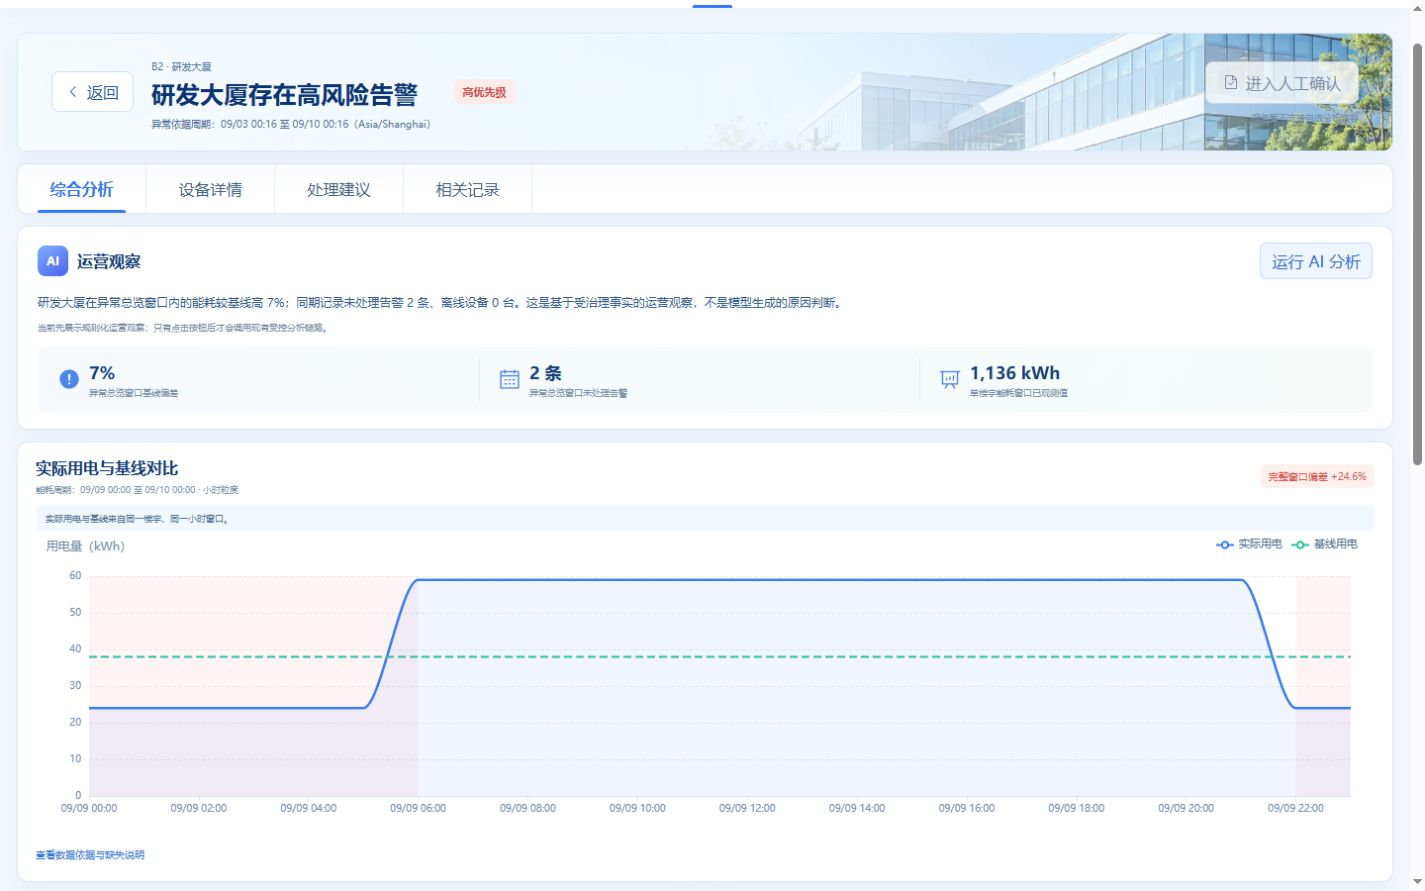
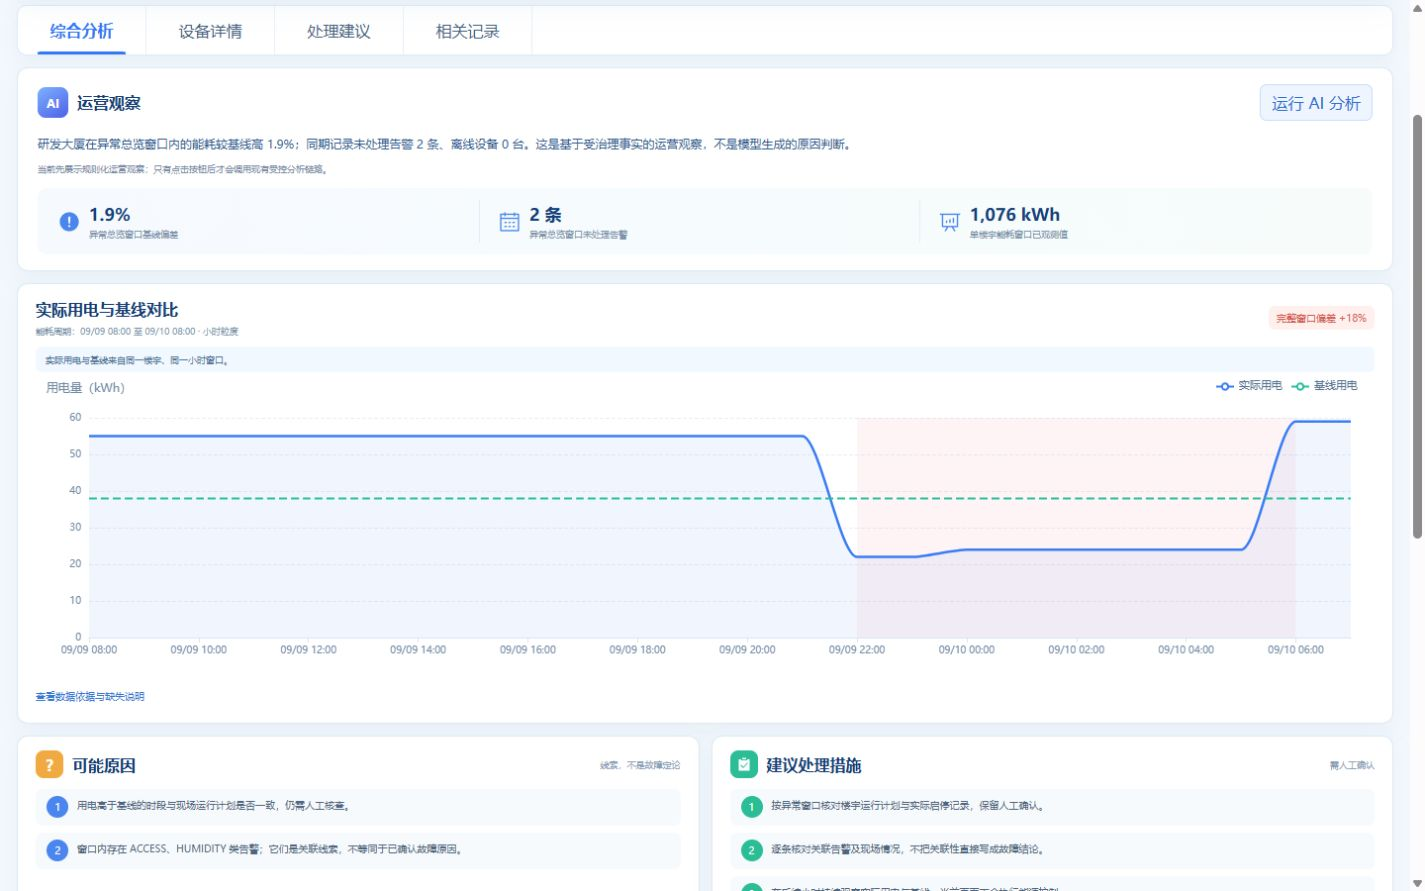
fix: keep customer analysis in shared shell

diff --git a/ui/src/components/customer/energy-analysis.css b/ui/src/components/customer/energy-analysis.css
@@ -5,23 +5,8 @@
 .energy-analysis__empty > svg { width: 54px; height: 54px; color: var(--customer-blue); }
 .energy-analysis__empty h1 { color: #123b78; font-size: 26px; }
 .energy-analysis__empty p { max-width: 620px; color: var(--customer-muted); line-height: 1.7; }
-.energy-analysis__empty button, .energy-analysis__back { display: flex; align-items: center; gap: 6px; padding: 9px 14px; color: #245a9f; background: #fff; border: 1px solid #cfe0f4; border-radius: 8px; cursor: pointer; }
-.energy-analysis__empty button svg, .energy-analysis__back svg { width: 15px; }
-
-.energy-analysis__hero { position: relative; display: flex; align-items: center; justify-content: space-between; min-height: 118px; padding: 20px 34px; overflow: hidden; border: 1px solid #dceafa; border-radius: 11px; box-shadow: 0 10px 30px rgba(52,106,165,.08); }
-.energy-analysis__hero::after { content: ""; position: absolute; inset: 0; z-index: 0; background: linear-gradient(90deg, rgba(245,251,255,.98) 0%, rgba(242,249,255,.9) 54%, rgba(242,249,255,.18) 100%); }
-.energy-analysis__hero > *:not(.customer-art) { position: relative; z-index: 1; }
-.energy-analysis__heading { display: flex; align-items: center; gap: 18px; min-width: 0; }
-.energy-analysis__heading > div { min-width: 0; }
-.energy-analysis__heading > div > span { color: #4e75a6; font-size: 10px; }
-.energy-analysis__heading h1 { margin-top: 4px; color: #0c3474; font-size: clamp(20px, 1.7vw, 28px); line-height: 1.25; }
-.energy-analysis__heading p { margin-top: 8px; color: #5273a0; font-size: 10px; }
-.energy-analysis__priority { flex: none; padding: 5px 9px; color: #ad751d; background: #fff3d9; border-radius: 7px; font-size: 11px; }
-.energy-analysis__priority.is-high { color: #d24d4a; background: #ffebe9; }
-.energy-analysis__actions { display: grid; justify-items: end; gap: 7px; margin-left: 18px; }
-.energy-analysis__actions button { display: flex; align-items: center; gap: 7px; padding: 10px 17px; color: #7e8ea2; background: rgba(255,255,255,.78); border: 1px solid #cad8e7; border-radius: 8px; }
-.energy-analysis__actions button svg { width: 16px; }
-.energy-analysis__actions span { color: #7890ad; font-size: 9px; }
+.energy-analysis__empty button { display: flex; align-items: center; gap: 6px; padding: 9px 14px; color: #245a9f; background: #fff; border: 1px solid #cfe0f4; border-radius: 8px; cursor: pointer; }
+.energy-analysis__empty button svg { width: 15px; }
 
 .energy-analysis__tabs { display: flex; align-items: stretch; overflow-x: auto; background: #fff; border: 1px solid #e0eaf5; border-radius: 10px; box-shadow: 0 6px 18px rgba(44,83,123,.05); }
 .energy-analysis__tabs button { position: relative; min-width: 130px; padding: 14px 24px; color: #46617f; background: transparent; border: 0; border-right: 1px solid #e8eff7; cursor: pointer; }
@@ -91,18 +76,12 @@
 .energy-analysis__records time { color: #8397ad; }
 
 @media (max-width: 1180px) {
-  .energy-analysis__hero { align-items: flex-start; }
-  .energy-analysis__heading { align-items: flex-start; }
-  .energy-analysis__actions { max-width: 190px; }
   .energy-analysis__summary-grid { grid-template-columns: 1fr; }
   .energy-analysis__summary-grid > div { border-right: 0; border-bottom: 1px solid #e4edf6; }
   .energy-analysis__summary-grid > div:last-child { border-bottom: 0; }
 }
 
 @media (max-width: 760px) {
-  .energy-analysis__hero { display: grid; gap: 14px; padding: 18px; }
-  .energy-analysis__heading { display: grid; gap: 10px; }
-  .energy-analysis__actions { justify-items: start; margin-left: 0; }
   .energy-analysis__two-column { grid-template-columns: 1fr; }
   .energy-analysis__basis dl { grid-template-columns: 1fr; }
   .energy-analysis__basis dl > div { grid-template-columns: 1fr; gap: 3px; }

diff --git a/ui/src/components/customer/customer-surface.css b/ui/src/components/customer/customer-surface.css
@@ -54,6 +54,20 @@
 .customer-shell__hero h1 { margin: 0; color: #123c80; font-size: clamp(24px, 2vw, 32px); line-height: 1.2; letter-spacing: .04em; }
 .customer-shell__hero p { margin: 10px 0 0; color: #365b91; font-size: 14px; word-spacing: .35em; }
 .customer-shell__hero > span { margin-right: 2%; color: #24518a; font-size: 16px; font-style: italic; line-height: 1.8; text-align: right; transform: rotate(-4deg); }
+.customer-analysis-hero { position: relative; z-index: 1; display: flex; align-items: center; justify-content: space-between; gap: 24px; width: 100%; }
+.customer-analysis-hero__heading { display: flex; align-items: center; gap: 18px; min-width: 0; }
+.customer-analysis-hero__heading > div { min-width: 0; }
+.customer-analysis-hero__heading > div > span { color: #4e75a6; font-size: 10px; }
+.customer-analysis-hero__heading h1 { margin-top: 4px; font-size: clamp(20px, 1.7vw, 28px); letter-spacing: 0; }
+.customer-analysis-hero__heading p { margin-top: 8px; color: #5273a0; font-size: 10px; word-spacing: 0; }
+.customer-analysis-hero__back { display: flex; align-items: center; gap: 6px; flex: none; padding: 9px 14px; color: #245a9f; background: rgba(255,255,255,.9); border: 1px solid #cfe0f4; border-radius: 8px; cursor: pointer; }
+.customer-analysis-hero__back svg { width: 15px; }
+.customer-analysis-hero__priority { flex: none; padding: 5px 9px; color: #ad751d; background: #fff3d9; border-radius: 7px; font-size: 11px; }
+.customer-analysis-hero__priority.is-high { color: #d24d4a; background: #ffebe9; }
+.customer-analysis-hero__actions { display: grid; justify-items: end; flex: none; gap: 7px; }
+.customer-analysis-hero__actions button { display: flex; align-items: center; gap: 7px; padding: 10px 17px; color: #7e8ea2; background: rgba(255,255,255,.78); border: 1px solid #cad8e7; border-radius: 8px; }
+.customer-analysis-hero__actions button svg { width: 16px; }
+.customer-analysis-hero__actions span { color: #7890ad; font-size: 9px; }
 .customer-shell__footer { display: flex; justify-content: space-between; gap: 20px; padding: 14px 4px 18px; color: #8498b2; font-size: 10px; }
 
 .park-overview { display: grid; gap: 12px; margin-top: 12px; }
@@ -161,6 +175,9 @@
 }
 
 @media (max-width: 1180px) {
+  .customer-analysis-hero { align-items: flex-start; }
+  .customer-analysis-hero__heading { align-items: flex-start; }
+  .customer-analysis-hero__actions { max-width: 190px; }
   .customer-shell__topbar { flex-wrap: wrap; padding-top: 8px; }
   .customer-shell__nav { order: 3; justify-content: center; width: 100%; min-height: 42px; }
   .customer-shell__nav .is-planned::after { display: none; }
@@ -174,6 +191,9 @@
 }
 
 @media (max-width: 760px) {
+  .customer-analysis-hero { display: grid; gap: 14px; }
+  .customer-analysis-hero__heading { display: grid; gap: 10px; }
+  .customer-analysis-hero__actions { justify-items: start; }
   .customer-shell__topbar { gap: 8px; }
   .customer-shell__divider, .customer-shell__park, .customer-shell__workbench > svg { display: none; }
   .customer-shell__user-zone { margin-left: auto; }

diff --git a/ui/src/components/customer/EnergyAnalysis.vue b/ui/src/components/customer/EnergyAnalysis.vue
@@ -1,10 +1,6 @@
 <script setup lang="ts">
 import { computed, ref, watch } from 'vue'
-import { ArrowLeft, Calendar, Checked, DataAnalysis, DocumentChecked, Refresh, WarningFilled } from '@element-plus/icons-vue'
-import campusBanner from '../../assets/customer/campus-banner.png'
-import campusBanner960 from '../../assets/customer/campus-banner-960.webp'
-import campusBanner1440 from '../../assets/customer/campus-banner-1440.webp'
-import campusBanner2172 from '../../assets/customer/campus-banner-2172.webp'
+import { ArrowLeft, Calendar, Checked, DataAnalysis, Refresh, WarningFilled } from '@element-plus/icons-vue'
 import { useOperationsAnalysis } from '../../composables/useOperationsAnalysis'
 import { getEnergyTimeSeries } from '../../services/energyTimeSeriesApi'
 import { getAnomalyEvidence } from '../../services/operationsAnomalyApi'
@@ -368,26 +364,6 @@ watch(
     </section>
 
     <template v-else>
-      <section class="energy-analysis__hero" aria-labelledby="analysis-title">
-        <picture class="customer-art" aria-hidden="true">
-          <source type="image/webp" :srcset="`${campusBanner960} 960w, ${campusBanner1440} 1440w, ${campusBanner2172} 2172w`" sizes="98vw" />
-          <img :src="campusBanner" alt="" />
-        </picture>
-        <div class="energy-analysis__heading">
-          <button type="button" class="energy-analysis__back" data-analysis-back @click="$emit('back')"><ArrowLeft aria-hidden="true" /> 返回</button>
-          <div>
-            <span>{{ context.buildingId }} · {{ context.buildingName }}</span>
-            <h1 id="analysis-title">{{ context.title }}</h1>
-            <p>异常依据周期：{{ formatWindow(context.anomalyWindow.from, context.anomalyWindow.to, context.anomalyWindow.timezone) }}（{{ context.anomalyWindow.timezone }}）</p>
-          </div>
-          <strong class="energy-analysis__priority" :class="{ 'is-high': context.priority === '高' }">{{ context.priority }}优先级</strong>
-        </div>
-        <div class="energy-analysis__actions">
-          <button type="button" disabled title="事件与工单将在人工确认页面开放"><DocumentChecked aria-hidden="true" /> 进入人工确认</button>
-          <span>报告暂不支持自选分析内容</span>
-        </div>
-      </section>
-
       <nav class="energy-analysis__tabs" aria-label="分析页内容导航">
         <button type="button" class="is-current" @click="scrollToSection('analysis-conclusion')">综合分析</button>
         <button type="button" @click="scrollToSection('related-devices')">设备详情</button>

diff --git a/ui/src/components/customer/CustomerAnalysisHero.vue b/ui/src/components/customer/CustomerAnalysisHero.vue
@@ -1,0 +1,54 @@
+<script setup lang="ts">
+import { ArrowLeft, DocumentChecked } from '@element-plus/icons-vue'
+import type { CustomerAnalysisContext } from '../../types/customer'
+
+defineProps<{ context: CustomerAnalysisContext | null }>()
+defineEmits<{ back: [] }>()
+
+function formatTime(value: string, timezone: string): string {
+  const date = new Date(value)
+  if (Number.isNaN(date.valueOf())) return '时间未知'
+  return new Intl.DateTimeFormat('zh-CN', {
+    timeZone: timezone,
+    month: '2-digit',
+    day: '2-digit',
+    hour: '2-digit',
+    minute: '2-digit',
+    hour12: false,
+  }).format(date)
+}
+</script>
+
+<template>
+  <div class="customer-analysis-hero">
+    <div class="customer-analysis-hero__heading">
+      <button type="button" class="customer-analysis-hero__back" data-analysis-shell-back @click="$emit('back')">
+        <ArrowLeft aria-hidden="true" /> 返回
+      </button>
+      <div v-if="context">
+        <span>{{ context.buildingId }} · {{ context.buildingName }}</span>
+        <h1 id="customer-analysis-title">{{ context.title }}</h1>
+        <p>
+          异常依据周期：{{ formatTime(context.anomalyWindow.from, context.anomalyWindow.timezone) }}
+          至 {{ formatTime(context.anomalyWindow.to, context.anomalyWindow.timezone) }}
+          （{{ context.anomalyWindow.timezone }}）
+        </p>
+      </div>
+      <div v-else>
+        <h1 id="customer-analysis-title">运营分析</h1>
+        <p>请先从园区总览选择需要分析的楼宇</p>
+      </div>
+      <strong
+        v-if="context"
+        class="customer-analysis-hero__priority"
+        :class="{ 'is-high': context.priority === '高' }"
+      >{{ context.priority }}优先级</strong>
+    </div>
+    <div class="customer-analysis-hero__actions">
+      <button type="button" disabled title="事件与工单将在人工确认页面开放">
+        <DocumentChecked aria-hidden="true" /> 进入人工确认
+      </button>
+      <span>报告暂不支持自选分析内容</span>
+    </div>
+  </div>
+</template>

diff --git a/ui/src/components/showcase/ShowcaseHome.spec.ts b/ui/src/components/showcase/ShowcaseHome.spec.ts
@@ -64,21 +64,28 @@ describe('ShowcaseHome customer shell', () => {
           },
           EnergyAnalysis: {
             props: ['context'],
-            emits: ['back'],
-            template: '<main data-energy-analysis><span>{{ context?.buildingName }}</span><button data-back @click="$emit(\'back\')">返回</button></main>',
+            template: '<main data-energy-analysis><span>{{ context?.buildingName }}</span></main>',
           },
         },
       },
     })
+    const shell = wrapper.get('[data-customer-shell]').element
+    const topbar = wrapper.get('.customer-shell__topbar').element
 
     await wrapper.get('[data-open-analysis]').trigger('click')
     expect(wrapper.get('[data-customer-nav="analysis"]').attributes('aria-current')).toBe('page')
     expect(wrapper.get('[data-energy-analysis]').text()).toContain('研发大厦')
+    expect(wrapper.get('#customer-analysis-title').text()).toContain('研发大厦能耗偏离基线')
+    expect(wrapper.get('[data-customer-shell]').element).toBe(shell)
+    expect(wrapper.get('.customer-shell__topbar').element).toBe(topbar)
+    expect(wrapper.findAll('.customer-shell__topbar')).toHaveLength(1)
     expect(wrapper.emitted('enter-workbench')).toBeUndefined()
 
-    await wrapper.get('[data-back]').trigger('click')
+    await wrapper.get('[data-analysis-shell-back]').trigger('click')
     expect(wrapper.get('[data-customer-nav="overview"]').attributes('aria-current')).toBe('page')
     expect(wrapper.find('[data-park-overview]').isVisible()).toBe(true)
     expect(wrapper.find('[data-energy-analysis]').exists()).toBe(false)
+    expect(wrapper.get('[data-customer-shell]').element).toBe(shell)
+    expect(wrapper.get('.customer-shell__topbar').element).toBe(topbar)
   })
 })

diff --git a/ui/src/components/customer/CustomerShell.vue b/ui/src/components/customer/CustomerShell.vue
@@ -70,7 +70,10 @@ const customerNavigation = [
     </header>
 
     <div class="customer-shell__body">
-      <section v-if="props.activePage === 'overview'" class="customer-shell__hero" aria-labelledby="customer-hero-title">
+      <section
+        class="customer-shell__hero"
+        :aria-labelledby="props.activePage === 'analysis' ? 'customer-analysis-title' : 'customer-hero-title'"
+      >
         <picture class="customer-art" aria-hidden="true">
           <source
             type="image/webp"
@@ -79,11 +82,19 @@ const customerNavigation = [
           />
           <img :src="campusBanner" alt="" fetchpriority="high" />
         </picture>
-        <div>
-          <h1 id="customer-hero-title">AI 让园区更智慧，让运营更从容</h1>
-          <p>安全 · 绿色 · 高效 · 人性化　打造可持续发展的未来园区</p>
-        </div>
-        <span>科技赋能空间<br />让美好发生</span>
+        <slot v-if="props.activePage === 'analysis'" name="analysis-hero">
+          <div>
+            <h1 id="customer-analysis-title">运营分析</h1>
+            <p>请先从园区总览选择需要分析的楼宇</p>
+          </div>
+        </slot>
+        <template v-else>
+          <div>
+            <h1 id="customer-hero-title">AI 让园区更智慧，让运营更从容</h1>
+            <p>安全 · 绿色 · 高效 · 人性化　打造可持续发展的未来园区</p>
+          </div>
+          <span>科技赋能空间<br />让美好发生</span>
+        </template>
       </section>
       <slot />
       <footer class="customer-shell__footer">

diff --git a/ui/src/components/customer/CustomerAnalysisHero.spec.ts b/ui/src/components/customer/CustomerAnalysisHero.spec.ts
@@ -1,0 +1,31 @@
+import { mount } from '@vue/test-utils'
+import { describe, expect, it } from 'vitest'
+import CustomerAnalysisHero from './CustomerAnalysisHero.vue'
+import type { CustomerAnalysisContext } from '../../types/customer'
+
+const context: CustomerAnalysisContext = {
+  buildingId: 'B2',
+  buildingName: '研发大厦',
+  anomalyId: 'ALT-B2',
+  title: '研发大厦存在高风险告警',
+  priority: '高',
+  summary: { buildingId: 'B2', alertCount: 2, highRiskAlertCount: 2, offlineDeviceCount: 0, energyDeviationPct: 7 },
+  anomalyWindow: { from: '2026-09-01T00:00:00Z', to: '2026-09-09T00:00:00Z', timezone: 'Asia/Shanghai' },
+  energyWindow: { from: '2026-09-08T00:00:00Z', to: '2026-09-09T00:00:00Z', timezone: 'Asia/Shanghai', granularity: 'HOUR' },
+  source: 'OPERATIONS_ANALYTICS',
+}
+
+describe('CustomerAnalysisHero', () => {
+  it('renders the selected analysis context inside the shared shell hero', async () => {
+    const wrapper = mount(CustomerAnalysisHero, { props: { context } })
+
+    expect(wrapper.get('#customer-analysis-title').text()).toBe(context.title)
+    expect(wrapper.text()).toContain('B2 · 研发大厦')
+    expect(wrapper.text()).toContain('高优先级')
+    expect(wrapper.text()).toContain('Asia/Shanghai')
+    expect(wrapper.get('button[disabled]').text()).toContain('进入人工确认')
+
+    await wrapper.get('[data-analysis-shell-back]').trigger('click')
+    expect(wrapper.emitted('back')).toHaveLength(1)
+  })
+})

diff --git a/ui/src/components/showcase/ShowcaseHome.vue b/ui/src/components/showcase/ShowcaseHome.vue
@@ -1,5 +1,6 @@
 <script setup lang="ts">
 import { nextTick, ref } from 'vue'
+import CustomerAnalysisHero from '../customer/CustomerAnalysisHero.vue'
 import CustomerShell from '../customer/CustomerShell.vue'
 import EnergyAnalysis from '../customer/EnergyAnalysis.vue'
 import ParkOverview from '../customer/ParkOverview.vue'
@@ -38,6 +39,9 @@ function openAnalysis(context: CustomerAnalysisContext): void {
 
 <template>
   <CustomerShell :active-page="activePage" @navigate="navigate" @enter-workbench="$emit('enter-workbench')">
+    <template #analysis-hero>
+      <CustomerAnalysisHero :context="analysisContext" @back="navigate('overview')" />
+    </template>
     <ParkOverview
       v-show="activePage === 'overview'"
       :active="props.active !== false && activePage === 'overview'"

diff --git a/ui/src/components/customer/CustomerShell.spec.ts b/ui/src/components/customer/CustomerShell.spec.ts
@@ -23,7 +23,9 @@ describe('CustomerShell', () => {
     expect(wrapper.get('[data-customer-nav="analysis"]').attributes('aria-current')).toBe('page')
     expect(wrapper.get('[data-customer-nav="overview"]').attributes('aria-current')).toBeUndefined()
     expect(wrapper.get('.customer-shell__skip').attributes('href')).toBe('#customer-analysis-main')
-    expect(wrapper.find('.customer-shell__hero').exists()).toBe(false)
+    expect(wrapper.get('.customer-shell__hero').text()).toContain('运营分析')
+    expect(wrapper.get('.customer-shell__hero').attributes('aria-labelledby')).toBe('customer-analysis-title')
+    expect(wrapper.find('.customer-shell__hero picture').exists()).toBe(true)
   })
 
   it('serves responsive WebP artwork with a PNG fallback', () => {

diff --git a/ui/src/components/customer/EnergyAnalysis.spec.ts b/ui/src/components/customer/EnergyAnalysis.spec.ts
@@ -136,7 +136,6 @@ describe('EnergyAnalysis', () => {
       from: context.anomalyWindow.from,
       to: context.anomalyWindow.to,
     })
-    expect(wrapper.text()).toContain('创新中心能耗偏离基线')
     expect(wrapper.text()).toContain('210 kWh')
     expect(wrapper.text()).toContain('MTR-B1-1')
     expect(wrapper.text()).toContain('LFT-B1-01')

diff --git a/docs/issue-70-browser-verification.md b/docs/issue-70-browser-verification.md
@@ -21,6 +21,8 @@
 5. 查看单楼宇实际用电、同源基线、可能原因边界、建议、关联设备和记录。
 6. 点击返回，确认回到园区总览且仍选中 `B2 · 研发大厦`，没有进入内部技术工作台。
 
+进入前、进入后和返回后，DOM 中都只有一个 `CustomerShell`、一个顶部菜单和一个 Shell 横幅容器；运营分析没有页面级 `energy-analysis__hero`。顶部菜单节点由同一 Shell 持续持有，只切换“园区总览／运营分析”的选中状态。
+
 对应截图：
 
 - `docs/evidence/issue-70/flow-01-overview-b2-1440x900.png`
@@ -36,7 +38,7 @@
 | 1440×900 | 首页到分析页连续路径完整；无横向溢出 | `analysis-1440x900.png` |
 | 1366×768 | 返回与“运行 AI 分析”仍可达；无横向溢出 | `analysis-1366x768.png` |
 
-真实接口返回中，`energy_kwh` 与 `energy_baseline_kwh` 均为 `OPERATIONS_ANALYTICS`、同一 `B2`、同一小时窗口。页面展示的 `1,136 kWh` 是本次单楼宇能耗窗口已观测值；没有复制首页的全园区 `3,408 kWh`。
+真实接口返回中，`energy_kwh` 与 `energy_baseline_kwh` 均为 `OPERATIONS_ANALYTICS`、同一 `B2`、同一小时窗口。浏览器同时核对了首页的全园区汇总和详情页的单楼宇已观测值：两者使用各自标签和对象范围，详情没有复制园区合计。
 
 ## 状态矩阵
 
@@ -55,7 +57,7 @@
 
 ## 自动化与控制台
 
-- 前端：46 个测试文件、438 个测试通过；生产构建通过。
+- 前端：47 个测试文件、439 个测试通过；生产构建通过。
 - 后端：1,321 个测试通过，3 个既有跳过；Maven 构建成功。
 - 生命周期复验：进入分析页前不再在隐藏的 0×0 容器初始化 ECharts；复验窗口内浏览器控制台无新增 warning/error。
 

diff --git a/docs/issue-70-capability-map.md b/docs/issue-70-capability-map.md
@@ -4,7 +4,7 @@
 
 `园区总览重点关注 / 当前楼宇 → 查看分析 → 结论与趋势 → 数据依据与建议 → 返回园区总览`
 
-客户页面由 `ShowcaseHome` 保持同一个 `CustomerShell` 实例；运营分析不是内部技术工作台入口。返回总览时，`ParkOverview` 的显式楼宇偏好仍由原组件保存，并在重新取数后恢复。
+客户页面由 `ShowcaseHome` 保持同一个 `CustomerShell` 实例；顶部菜单、客户身份区和横幅容器始终由该 Shell 持有，运营分析只向同一横幅插入当前业务标题，不再创建页面级伪 Shell。运营分析不是内部技术工作台入口。返回总览时，`ParkOverview` 的显式楼宇偏好仍由原组件保存，并在重新取数后恢复。
 
 ## 跨页上下文
 
